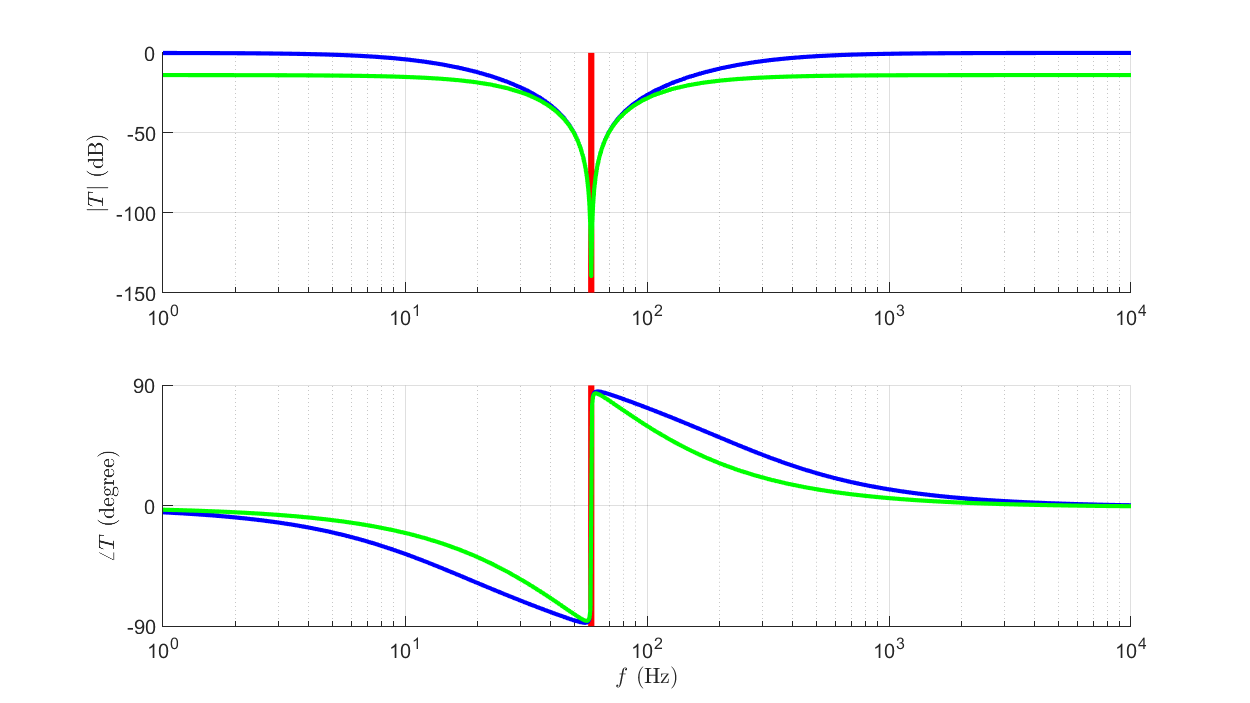
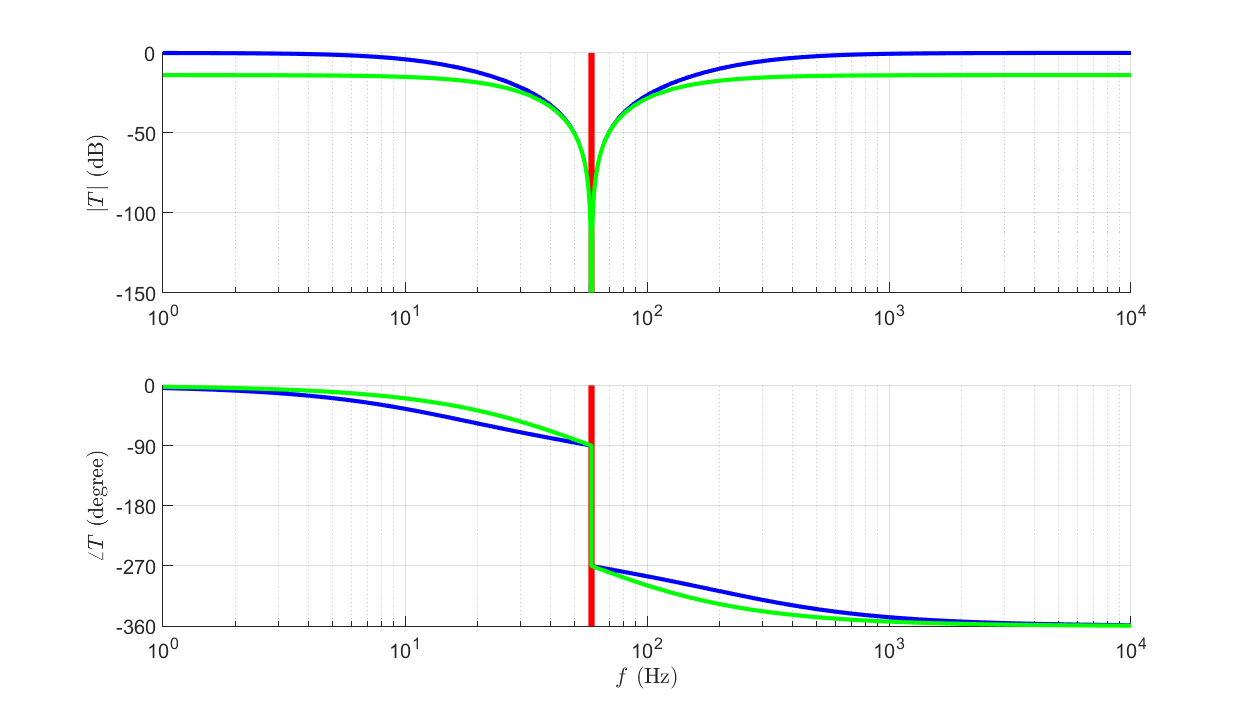
updata

diff --git a/bode_f.m b/bode_f.m
@@ -1,8 +1,9 @@
 function [mag, phase, freq] = bode_f(sys, f_low, f_high)
     [mag_temp, phase_temp, omega] = bode(sys, {2*pi*f_low, 2*pi*f_high});
     mag = 20 .* log(squeeze(mag_temp));
-    phase_max = ceil(max(phase_temp)/360);
-    phase = squeeze(phase_temp) - phase_max;
+    % phase_max = ceil(max(phase_temp)/360);
+    % phase = squeeze(phase_temp) - phase_max;
+    phase = mod(squeeze(phase_temp), 360) - 360;
     freq = omega ./ (2*pi);
 end
 
